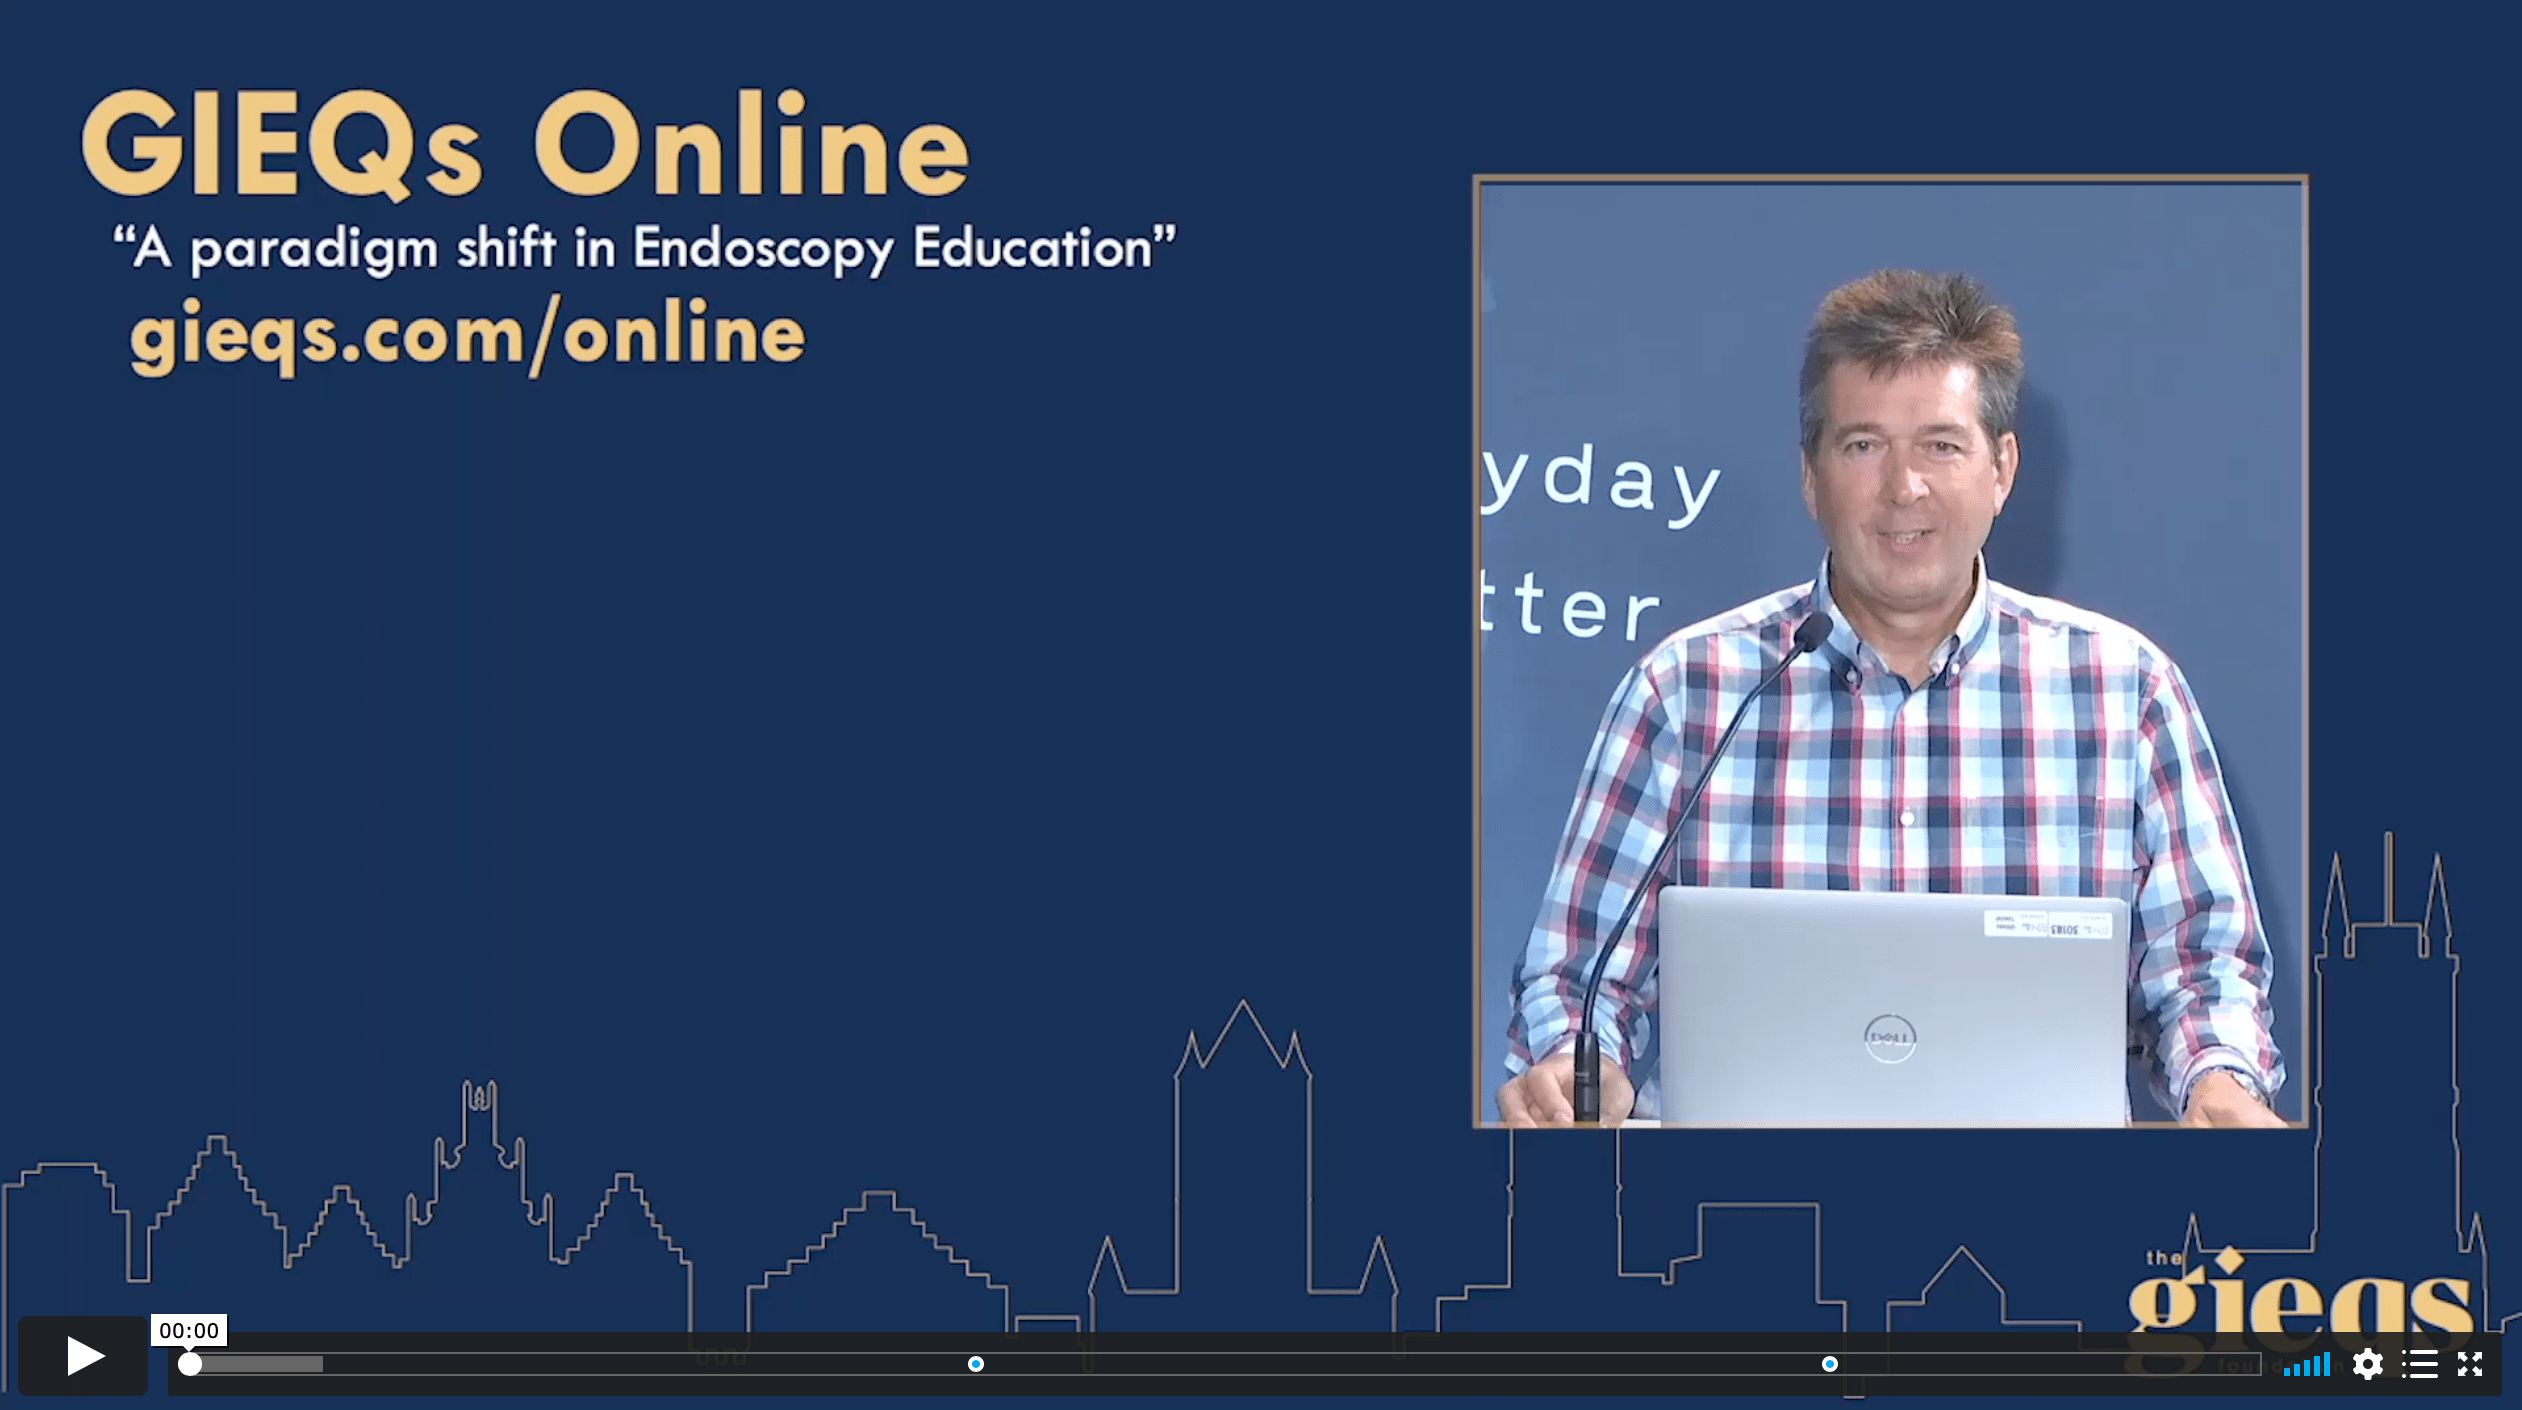
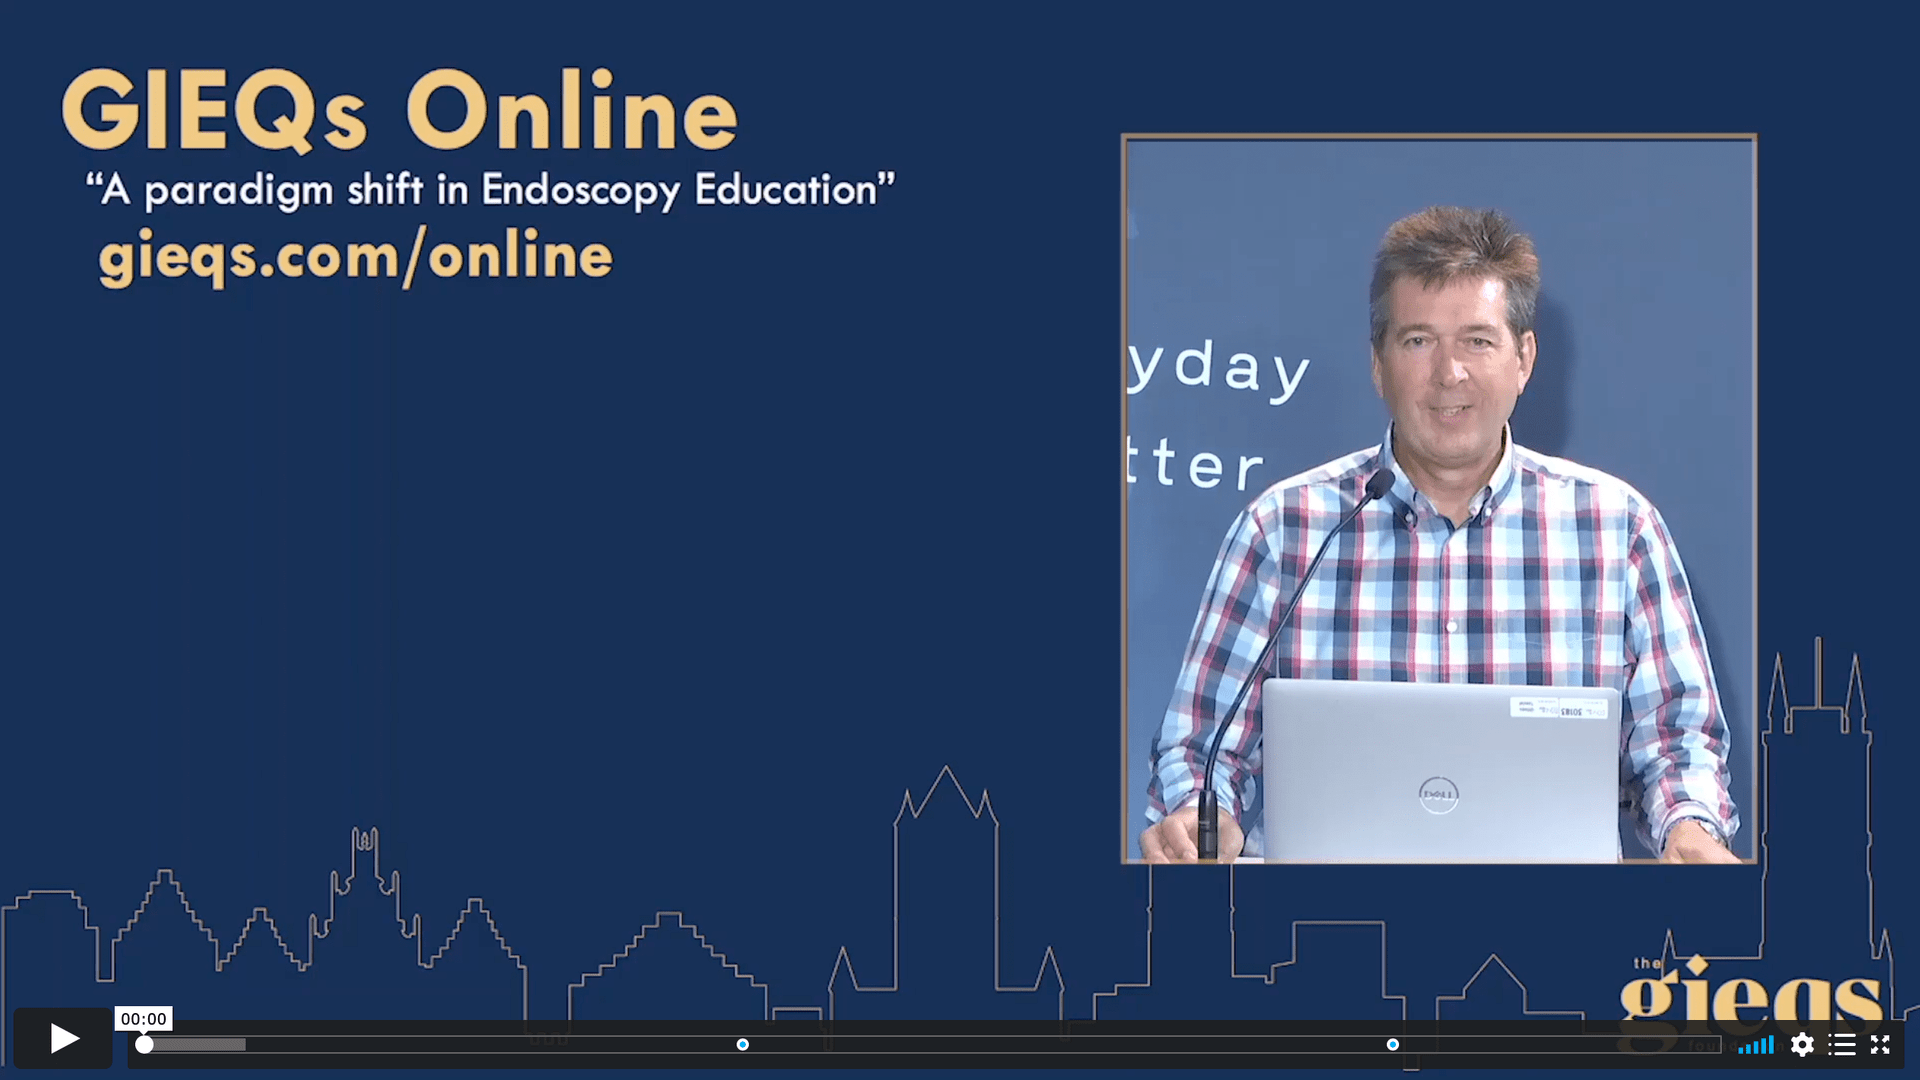
final

diff --git a/index.php b/index.php
@@ -418,50 +418,59 @@ $imageArray = ['assets/img/advert/gieqs_advert_1.jpeg']
     
 <div class="section-inner bg-gradient-dark"></div>
                 <!-- SVG illustration -->
-                <div class="pt-1 position-absolute middle right-0 col-lg-7 col-xl-6 d-none d-lg-block">
+                <div class="pt-1 position-absolute middle right-0 col-lg-7 col-xl-6 d-none d-lg-block" style="z-index:1090;">
                     <figure class="w-75" style="max-width: 1000px;">
-                    <div class="bd-example">
-  <div id="carouselExampleCaptions" class="carousel slide" data-ride="carousel">
-    <ol class="carousel-indicators">
-      <li data-target="#carouselExampleCaptions" data-slide-to="0" class="active"></li>
-      <li data-target="#carouselExampleCaptions" data-slide-to="1"></li>
-      <li data-target="#carouselExampleCaptions" data-slide-to="2"></li>
-    </ol>
-    <div class="carousel-inner">
-      <div class="carousel-item active">
-      <img alt="Image placeholder" src="assets/img/advert/online.png"
-                            class="svg-inject img-fluid">
-        <div class="carousel-caption d-none d-md-block">
-          <!-- <h5>Deconstructed Cases</h5>
-          <p>All presented in HD, tagged to quickly skip between ideas and academically referenced.</p> -->
-        </div>
-      </div>
-      <div class="carousel-item">
-      <img alt="Image placeholder" src="assets/img/advert/anderson.png"
-                            class="svg-inject img-fluid">
-        <div class="carousel-caption d-none d-md-block">
-          <h5>Dr John Anderson</h5>
-          <p>"This is the best, most comprehensive Endoscopy Learning Platform you're ever likely to find."</p>
-        </div>
-      </div>
-      <div class="carousel-item">
-      <img alt="Image placeholder" src="assets/img/advert/tate.png"
-                            class="svg-inject img-fluid">
-        <div class="carousel-caption d-none d-md-block">
-          <h5>Third slide label</h5>
-          <p>Praesent commodo cursus magna, vel scelerisque nisl consectetur.</p>
-        </div>
-      </div>
+                    <div id="carouselExampleInterval" class="carousel slide" data-ride="carousel">
+  <div class="carousel-inner">
+    <div class="carousel-item active" data-interval="2500">
+    <a href="<?php echo BASE_URL;?>/online"><img src="assets/img/advert/Slide35.png" class="d-block w-100" alt="..."></a>
     </div>
-    <a class="carousel-control-prev" href="#carouselExampleCaptions" role="button" data-slide="prev">
-      <span class="carousel-control-prev-icon" aria-hidden="true"></span>
-      <span class="sr-only">Previous</span>
-    </a>
-    <a class="carousel-control-next" href="#carouselExampleCaptions" role="button" data-slide="next">
-      <span class="carousel-control-next-icon" aria-hidden="true"></span>
-      <span class="sr-only">Next</span>
-    </a>
+    <div class="carousel-item" data-interval="2500">
+      <a href="<?php echo BASE_URL;?>/online"><img src="assets/img/advert/Slide36.png" class="d-block w-100" alt="..."></a>
+    </div>
+    <div class="carousel-item" data-interval="2500">
+      <a href="<?php echo BASE_URL;?>/online"><img src="assets/img/advert/Slide37.png" class="d-block w-100" alt="..."></a>
+    </div>
+    <div class="carousel-item" data-interval="2500">
+      <a href="<?php echo BASE_URL;?>/online"><img src="assets/img/advert/Slide38.png" class="d-block w-100" alt="..."></a>
+    </div>
+    <div class="carousel-item" data-interval="2500">
+      <a href="<?php echo BASE_URL;?>/online"><img src="assets/img/advert/Slide39.png" class="d-block w-100" alt="..."></a>
+    </div>
+    <div class="carousel-item" data-interval="2500">
+      <a href="<?php echo BASE_URL;?>/online"><img src="assets/img/advert/Slide40.png" class="d-block w-100" alt="..."></a>
+    </div>
+    <div class="carousel-item" data-interval="2500">
+      <a href="<?php echo BASE_URL;?>/online"><img src="assets/img/advert/Slide41.png" class="d-block w-100" alt="..."></a>
+    </div>
+    <div class="carousel-item" data-interval="2500">
+      <a href="<?php echo BASE_URL;?>/online"><img src="assets/img/advert/Slide42.png" class="d-block w-100" alt="..."></a>
+    </div>
+    <div class="carousel-item" data-interval="2500">
+      <a href="<?php echo BASE_URL;?>/online"><img src="assets/img/advert/Slide43.png" class="d-block w-100" alt="..."></a>
+    </div>
+    <div class="carousel-item" data-interval="2500">
+      <a href="<?php echo BASE_URL;?>/online"><img src="assets/img/advert/Slide44.png" class="d-block w-100" alt="..."></a>
+    </div>
+    <div class="carousel-item" data-interval="2500">
+      <a href="<?php echo BASE_URL;?>/online"><img src="assets/img/advert/Slide45.png" class="d-block w-100" alt="..."></a>
+    </div>
+    <div class="carousel-item" data-interval="2500">
+      <a href="<?php echo BASE_URL;?>/online"><img src="assets/img/advert/Slide46.png" class="d-block w-100" alt="..."></a>
+    </div>
+    <div class="carousel-item" data-interval="2500">
+      <a href="<?php echo BASE_URL;?>/online"><img src="assets/img/advert/Slide47.png" class="d-block w-100" alt="..."></a>
+    </div>
+
   </div>
+  <a class="carousel-control-prev z-index-master" href="#carouselExampleInterval" role="button" data-slide="prev">
+    <span class="carousel-control-prev-icon" aria-hidden="true"></span>
+    <span class="sr-only">Previous</span>
+  </a>
+  <a class="carousel-control-next" href="#carouselExampleInterval" role="button" data-slide="next">
+    <span class="carousel-control-next-icon" aria-hidden="true"></span>
+    <span class="sr-only">Next</span>
+  </a>
 </div>
                     </figure>
                 </div>
